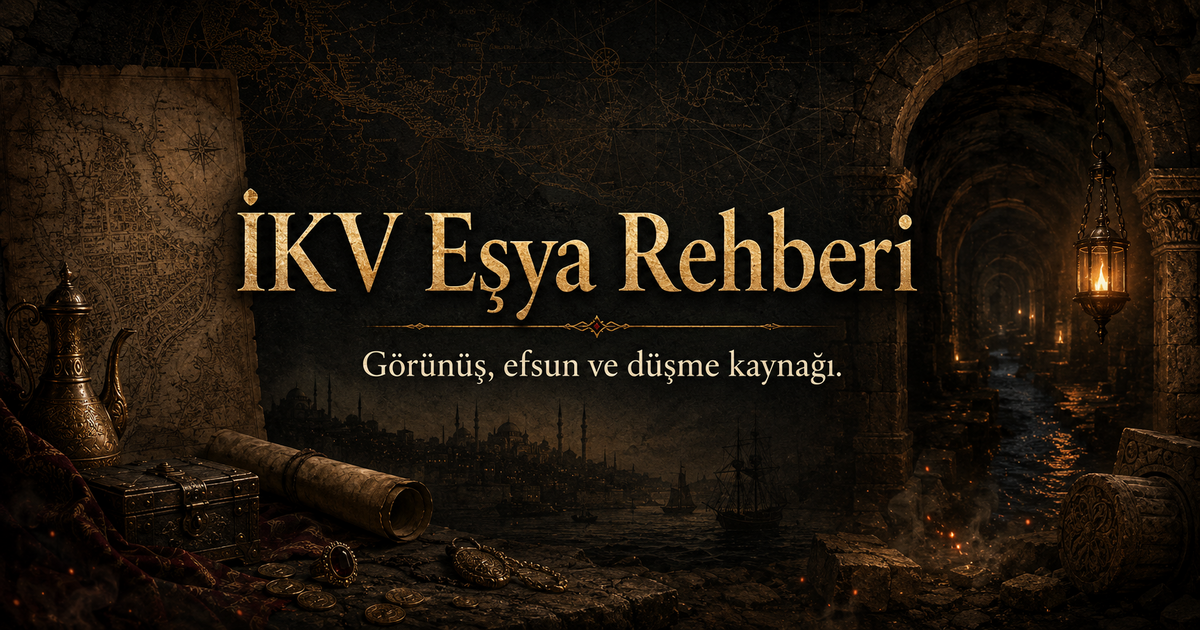
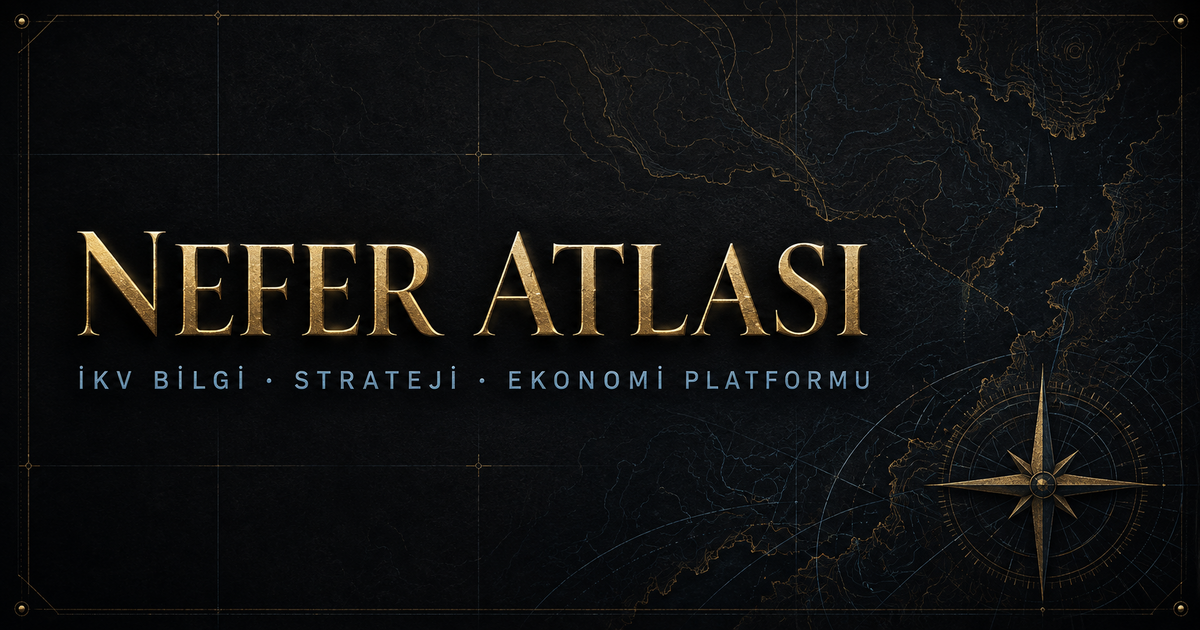
Nefer Atlası marka dönüşümü ve veri kalite kapıları

diff --git a/app/globals.css b/app/globals.css
@@ -19,3 +19,4 @@
 .dropList i{display:block;margin-top:4px;color:#858e99;font-size:7px;font-style:normal}
 .top-status{gap:10px}.top-status span{color:#c9cfd7;font-size:10px;letter-spacing:.12em;text-transform:uppercase}.moduleTabs{position:sticky;top:70px;z-index:24;width:100%;padding:10px clamp(14px,5vw,72px);display:grid;grid-template-columns:repeat(7,minmax(0,1fr));gap:8px;overflow-x:auto;background:#0a0d11ee;border-block:1px solid var(--line);backdrop-filter:blur(18px);scrollbar-width:none}.moduleTabs::-webkit-scrollbar{display:none}.moduleTabs button{min-width:0;padding:12px 14px;display:flex;align-items:center;justify-content:center;gap:9px;color:#89929e;background:#11161c;border:1px solid #252d37;border-radius:11px;cursor:pointer;transition:background .18s ease,border-color .18s ease,color .18s ease}.moduleTabs button small{color:#5e6875;font:700 8px monospace}.moduleTabs button span{font-size:10px;font-weight:800}.moduleTabs button.active{color:#17110a;background:var(--gold);border-color:var(--gold);box-shadow:0 8px 26px #0005}.moduleTabs button.active small{color:#5d421d}.hero{min-height:350px;padding-top:54px;padding-bottom:54px}.hero aside strong{font-size:54px}
 @media(max-width:760px){.top-status span{display:block}.moduleTabs{top:64px;grid-template-columns:none;grid-auto-flow:column;grid-auto-columns:minmax(98px,1fr);padding:8px 12px;gap:7px}.moduleTabs button{padding:11px 10px}.hero{padding-top:38px;padding-bottom:38px;gap:22px}.hero h1{font-size:42px}.hero aside{padding:19px;display:grid;grid-template-columns:auto 1fr;gap:4px 14px}.hero aside strong{grid-row:1/4;font-size:48px}.hero aside p{grid-column:1/-1;margin-top:12px}.builder,.catalog,.sources{padding-top:38px}}
+.brand{display:flex;align-items:center;gap:11px;color:inherit;text-decoration:none;letter-spacing:normal}.brandMark{width:38px;height:38px;margin:0!important;display:grid;place-items:center;color:#17110a!important;background:linear-gradient(145deg,#f1d18e,#b98535);border:1px solid #f3d99b;border-radius:10px;box-shadow:0 7px 24px #d6aa5d20;font:700 22px Georgia!important}.brandName{display:grid;gap:3px}.brandName strong{font-size:11px;letter-spacing:.17em}.brandName small{color:#89929e;font-size:7px;letter-spacing:.2em}.abilityVariantNote{margin:1rem 0;padding:.85rem 1rem;display:flex;align-items:center;gap:.5rem;flex-wrap:wrap;color:#cbd3dc;background:#5f7ea210;border:1px solid #7d9fc038;border-radius:11px;font-size:.78rem;line-height:1.55}.abilityVariantNote b{color:#dbe8f5}.abilityVariantNote a{margin-left:auto;color:#d9bd81;text-decoration:none;font-size:.72rem}.variantTag{color:#e4c278!important}.moduleTabs{grid-template-columns:repeat(7,minmax(0,1fr))}@media(max-width:760px){.brandMark{width:34px;height:34px}.brandName strong{font-size:9px}.brandName small{font-size:6px}.abilityVariantNote a{width:100%;margin-left:0}.moduleTabs{grid-template-columns:none}}

diff --git a/app/ability-simulator.tsx b/app/ability-simulator.tsx
@@ -3,19 +3,24 @@
 import { useMemo, useState } from "react";
 import type { CharacterClass } from "../lib/catalog";
 import abilityRows from "../data/abilities.json";
+import abilityVariantRows from "../data/ability-variants.json";
 
 const baseBudget = 96;
+const variantByBaseAbility = Object.fromEntries(
+  abilityVariantRows.map((variant) => [variant.replacesAbilityId, variant]),
+);
 const abilities = Object.fromEntries(
   (["Savaşçı", "Büyücü", "Şifacı"] as CharacterClass[]).map((klass) => [
     klass,
     abilityRows
       .filter((row) => row.class === klass)
       .map((row) => ({
+        id: row.id,
         name: row.name,
         note: `Seviye ${row.unlockLevel} · KÖ sunucu rehberi`,
       })),
   ]),
-) as Record<CharacterClass, { name: string; note: string }[]>;
+) as Record<CharacterClass, { id: string; name: string; note: string }[]>;
 const presets: Record<
   CharacterClass,
   { name: string; points: Record<string, number>; note: string }[]
@@ -112,6 +117,18 @@ export default function AbilitySimulator({ klass }: { klass: CharacterClass }) {
           <a href="https://www.kiyametoyun.com/rehber" target="_blank" rel="noreferrer">KÖ yetenek listesi ↗</a>
         </div>
       </div>
+      <aside className="abilityVariantNote">
+        <b>15 temel yetenek:</b> Boz Ayı ayrı bir 16. yetenek değildir; resmî
+        oyun rehberinde Kanatma&apos;nın yerine geçen ve aynı puanı kullanan
+        varyant olarak açıklanır.
+        <a
+          href="https://download.istanbuloyun.com/ikv_oyun_rehberi.pdf"
+          target="_blank"
+          rel="noreferrer"
+        >
+          Resmî oyun rehberi · sayfa 17 ↗
+        </a>
+      </aside>
       <label className="presetSelect">
         <span>Topluluk rehberi başlangıcı</span>
         <select
@@ -131,6 +148,12 @@ export default function AbilitySimulator({ klass }: { klass: CharacterClass }) {
             <span>
               <b>{ability.name}</b>
               <small>{ability.note}</small>
+              {variantByBaseAbility[ability.id] && (
+                <small className="variantTag">
+                  {variantByBaseAbility[ability.id].name} varyantı aynı puanı
+                  kullanır
+                </small>
+              )}
             </span>
             <input
               aria-label={`${ability.name} puanı`}

diff --git a/app/page.tsx b/app/page.tsx
@@ -235,25 +235,29 @@ export default function Home() {
   return (
     <main>
       <header>
-        <a href="#top">
-          <b>İKV</b> EŞYA ARŞİVİ
+        <a className="brand" href="#top" aria-label="Nefer Atlası ana sayfa">
+          <b className="brandMark">N</b>
+          <span className="brandName">
+            <strong>NEFER ATLASI</strong>
+            <small>İKV BİLGİ PLATFORMU</small>
+          </span>
         </a>
         <nav className="top-status" aria-label="Açık modül">
           <span>{moduleTabs.find((item) => item.id === activeModule)?.label}</span>
-          <i>M5</i>
+          <i>BETA</i>
         </nav>
       </header>
       <section className="hero" id="top">
         <div>
-          <p className="eyebrow">KANITLI DONANIM PLANLAYICI</p>
+          <p className="eyebrow">İKV BİLGİ · STRATEJİ · EKONOMİ PLATFORMU</p>
           <h1>
-            Kur. Karşılaştır.
+            Bilgiyi doğrula.
             <br />
-            <em>Karşılaşmaya hazırlan.</em>
+            <em>Stratejini kur.</em>
           </h1>
           <p>
-            Her yuvayı bağımsız seç; hedef puanını, tılsım etkisini ve
-            grup bölgelerindeki ganimetleri aynı doğrulama zincirinde gör.
+            Eşyaları, buildleri, yetenekleri, bölgeleri, madenleri ve pazar
+            verisini aynı kaynak zincirinde incele; karşılaşmaya hazırlan.
           </p>
         </div>
         <aside>
@@ -266,7 +270,7 @@ export default function Home() {
           </p>
         </aside>
       </section>
-      <nav className="moduleTabs" id="modules" role="tablist" aria-label="Rehber modülleri">
+      <nav className="moduleTabs" id="modules" role="tablist" aria-label="Nefer Atlası modülleri">
         {moduleTabs.map((item, index) => (
           <button
             key={item.id}
@@ -570,7 +574,7 @@ function Totals({ totals }: { totals: Record<string, number> }) {
       </article>
       <article>
         <small>HESAP KURALI</small>
-        <h4>Çelişkili alanlar toplama girmez</h4>
+        <h4>Çelişkili özellikler hesap dışı</h4>
         <p>
           Her sınıfın tılsımı yalnız kendi doğrulanmış özelliğine uygulanır;
           gerekli yetenek tabanı ve tılsım çarpanı ayrı tutulur. Hedef puanı

diff --git a/lib/catalog.ts b/lib/catalog.ts
@@ -29,7 +29,7 @@ const glassesStats:Stat[]=glassesStatRows.flatMap(row=>row.stats.map(([attribute
 export const stats = [...statRows,...glassesStats,...groupDerivedStatRows] as Stat[];
 export const recipes = recipeRows as Recipe[];
 export const sources = sourceRows as Source[];
-const groupLootEvidence:EvidenceClaim[]=groupLootEvidenceRows.flatMap(group=>group.itemIds.flatMap(itemId=>["name","class","slot"].map(field=>({id:`ev-${itemId}-${field}`,itemId,field,sourceId:group.sourceId,locator:group.locator,status:"single_source" as const,checkedAt:"2026-08-23"}))));
+const groupLootEvidence:EvidenceClaim[]=groupLootEvidenceRows.flatMap(group=>group.itemIds.flatMap(itemId=>["name","class","slot"].map(field=>({id:`ev-${itemId}-${field}-${group.sourceId}`,itemId,field,sourceId:group.sourceId,locator:group.locator,status:"single_source" as const,checkedAt:"2026-08-23"}))));
 const glassesEvidence:EvidenceClaim[]=glassesRows.flatMap(item=>["name","class","level","slot"].map(field=>({id:`ev-${item.id}-${field}`,itemId:item.id,field,sourceId:"fandom-glasses",locator:"Gözlükler tablosu",status:"single_source" as const,checkedAt:"2026-08-23"})));
 export const evidence = [...evidenceRows,...groupLootEvidence,...glassesEvidence] as EvidenceClaim[];
 export const images = imageRows;

diff --git a/app/layout.tsx b/app/layout.tsx
@@ -5,12 +5,24 @@ import "./mining.css";
 import "./skills.css";
 export const metadata: Metadata = {
   metadataBase: new URL("https://ikv-esya-rehberi.gdyon.chatgpt.site"),
-  title: "İKV Eşya Rehberi ve Donanım Planlayıcı",
+  title: "Nefer Atlası | İKV Bilgi, Strateji ve Ekonomi Platformu",
   description:
-    "Alan bazlı kanıtlara dayanan İKV eşya arşivi ve sekiz yuvalı donanım planlayıcı.",
+    "İKV eşyaları, buildler, yetenekler, bölgeler, madenler, pazar ve endgame analizi için kaynaklı topluluk platformu.",
+  icons: { icon: "/favicon.svg" },
   openGraph: {
-    title: "İKV Eşya Rehberi",
-    description: "Eşyanı kanıtla, donanımını güvenilir verilerle planla.",
+    title: "Nefer Atlası",
+    description:
+      "İKV bilgisini doğrula; donanımını, yeteneğini, farmını ve stratejini aynı atlas üzerinde planla.",
+    siteName: "Nefer Atlası",
+    locale: "tr_TR",
+    type: "website",
+    images: ["/og.png"],
+  },
+  twitter: {
+    card: "summary_large_image",
+    title: "Nefer Atlası",
+    description:
+      "İKV bilgi, strateji ve ekonomi platformu: kaynaklı eşya, build, yetenek, bölge, maden ve endgame analizi.",
     images: ["/og.png"],
   },
 };

diff --git a/README.md b/README.md
@@ -1,6 +1,6 @@
-# İKV Eşya Rehberi ve Build Oluşturucu
+# Nefer Atlası
 
-Kaynak gösteren eşya kataloğu, sekiz yuvalı build oluşturucu ve İKV tılsım/yetenek sinerjileri için topluluk projesi.
+İKV eşyaları, buildler, yetenekler, bölgeler, madenler, pazar ve endgame analizi için kaynak gösteren bağımsız topluluk platformu.
 
 ## Çalışmaya başlamadan önce
 

diff --git a/docs/PROJECT_OS.md b/docs/PROJECT_OS.md
@@ -1,4 +1,4 @@
-# İKV Rehberi — Proje İşletim Sistemi
+# Nefer Atlası — Proje İşletim Sistemi
 
 Bu klasör projenin ikinci beynidir. Kod ne yaptığımızı, bu belgeler neden yaptığımızı ve sırada ne olduğunu kaydeder.
 
